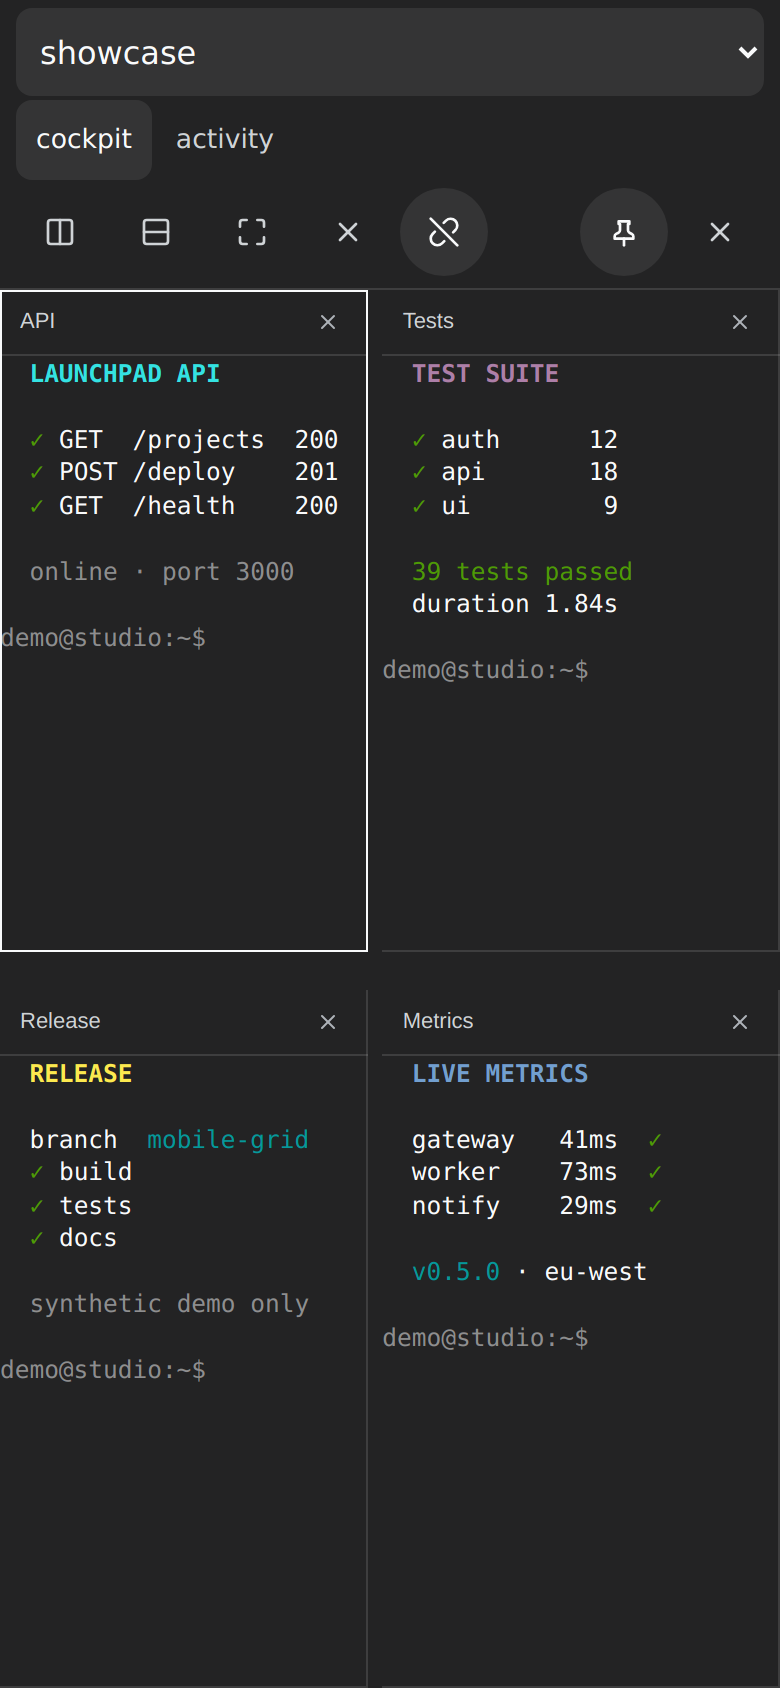
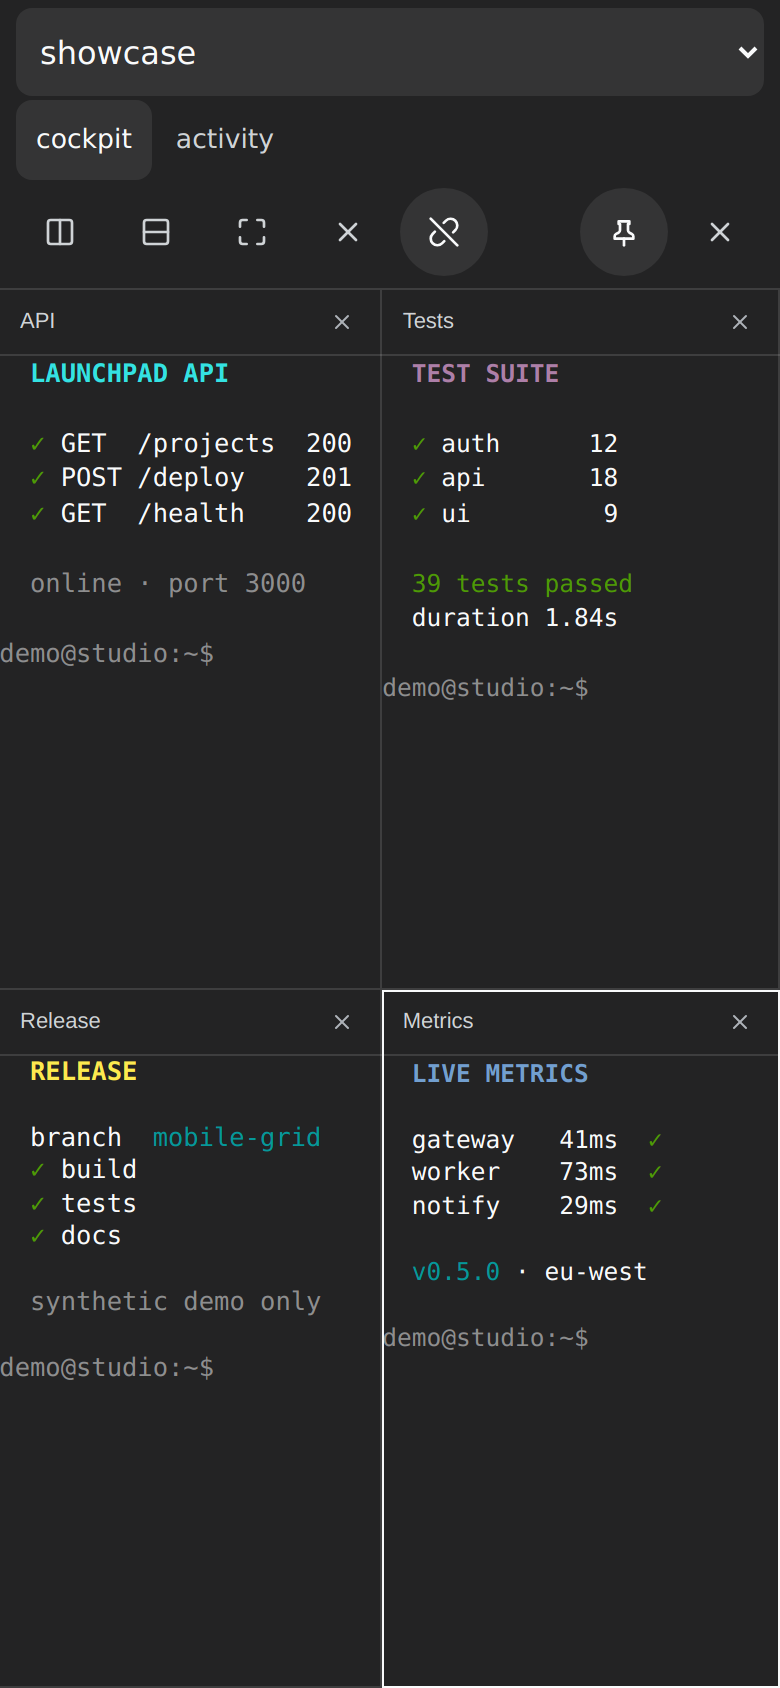
fix: close tmux pane layout seams

diff --git a/lib/client.js b/lib/client.js
@@ -599,6 +599,17 @@ window.__ModuleLoader__.load({
       })
     }
 
+    /**
+     * tmux pane_width/pane_height exclude the one-cell separator to the right
+     * and below an interior pane. Extend the visual box through that separator
+     * so adjacent borders meet, while xterm still keeps the true pane grid.
+     */
+    function paneVisualBox(pane, cols, rows) {
+      const width = pane.width + (pane.left + pane.width < cols ? 1 : 0)
+      const height = pane.height + (pane.top + pane.height < rows ? 1 : 0)
+      return { left: pane.left, top: pane.top, width, height }
+    }
+
     function mountPane(body, pane, store) {
       let rec = store.panes.get(pane.id)
       if (!rec) {
@@ -664,10 +675,11 @@ window.__ModuleLoader__.load({
       const snap = store.get().snapshot
       const w = Math.max(snap && snap.cols ? snap.cols : 80, 1)
       const hRows = Math.max(snap && snap.rows ? snap.rows : 24, 1)
-      rec.wrap.style.left = `${(100 * pane.left) / w}%`
-      rec.wrap.style.top = `${(100 * pane.top) / hRows}%`
-      rec.wrap.style.width = `${(100 * pane.width) / w}%`
-      rec.wrap.style.height = `${(100 * pane.height) / hRows}%`
+      const box = paneVisualBox(pane, w, hRows)
+      rec.wrap.style.left = `${(100 * box.left) / w}%`
+      rec.wrap.style.top = `${(100 * box.top) / hRows}%`
+      rec.wrap.style.width = `${(100 * box.width) / w}%`
+      rec.wrap.style.height = `${(100 * box.height) / hRows}%`
       rec.wrap.dataset.active = pane.active ? '1' : '0'
       rec.label.textContent = pane.title || pane.role || pane.id
       fitPane(rec, pane)
@@ -690,25 +702,32 @@ window.__ModuleLoader__.load({
       const h = Math.max(snap && snap.rows ? snap.rows : 1, 1)
       const wanted = new Map()
       for (const pane of panes) {
+        const paneBox = paneVisualBox(pane, w, h)
         const right = neighbor(panes, pane, 'x')
         if (right) {
+          const rightBox = paneVisualBox(right, w, h)
+          const top = Math.max(paneBox.top, rightBox.top)
+          const bottom = Math.min(paneBox.top + paneBox.height, rightBox.top + rightBox.height)
           const key = `v:${pane.id}:${right.id}`
           wanted.set(key, {
             dir: 'v', pane, axis: 'x',
-            left: `${(100 * (pane.left + pane.width)) / w}%`,
-            top: `${(100 * Math.max(pane.top, right.top)) / h}%`,
-            height: `${(100 * Math.min(pane.top + pane.height, right.top + right.height) - Math.max(pane.top, right.top)) / h}%`,
+            left: `${(100 * rightBox.left) / w}%`,
+            top: `${(100 * top) / h}%`,
+            height: `${(100 * (bottom - top)) / h}%`,
             width: '',
           })
         }
         const below = neighbor(panes, pane, 'y')
         if (below) {
+          const belowBox = paneVisualBox(below, w, h)
+          const left = Math.max(paneBox.left, belowBox.left)
+          const rightEdge = Math.min(paneBox.left + paneBox.width, belowBox.left + belowBox.width)
           const key = `h:${pane.id}:${below.id}`
           wanted.set(key, {
             dir: 'h', pane, axis: 'y',
-            top: `${(100 * (pane.top + pane.height)) / h}%`,
-            left: `${(100 * Math.max(pane.left, below.left)) / w}%`,
-            width: `${(100 * Math.min(pane.left + pane.width, below.left + below.width) - Math.max(pane.left, below.left)) / w}%`,
+            top: `${(100 * belowBox.top) / h}%`,
+            left: `${(100 * left) / w}%`,
+            width: `${(100 * (rightEdge - left)) / w}%`,
             height: '',
           })
         }

diff --git a/src/client-paint.test.ts b/src/client-paint.test.ts
@@ -14,6 +14,21 @@ test('client bundle invariants', () => {
   assert.doesNotMatch(src, /FitAddon/)
   assert.doesNotMatch(src, /addon-fit/)
   assert.match(src, /term\.resize\(pane\.width, pane\.height\)/)
+  // Visual boxes absorb tmux's one-cell separators so pane borders meet.
+  assert.match(src, /function paneVisualBox\(/)
+  assert.match(src, /pane\.width \+ \(pane\.left \+ pane\.width < cols \? 1 : 0\)/)
+  assert.match(src, /pane\.height \+ \(pane\.top \+ pane\.height < rows \? 1 : 0\)/)
+  const visualSource = src.match(/function paneVisualBox\(pane, cols, rows\) \{[\s\S]*?\n    \}/)?.[0]
+  assert.ok(visualSource)
+  const paneVisualBox = Function(`return (${visualSource})`)() as (
+    pane: { left: number; top: number; width: number; height: number }, cols: number, rows: number,
+  ) => { left: number; top: number; width: number; height: number }
+  assert.deepEqual(paneVisualBox({ left: 0, top: 0, width: 79, height: 23 }, 160, 48), {
+    left: 0, top: 0, width: 80, height: 24,
+  })
+  assert.deepEqual(paneVisualBox({ left: 80, top: 24, width: 80, height: 24 }, 160, 48), {
+    left: 80, top: 24, width: 80, height: 24,
+  })
   // Keyboard handling is scoped to the dock, never window-global stealing.
   assert.match(src, /host\.contains\(event\.target\)/)
   // Reconnect re-seeds from an authoritative capture.

diff --git a/assets/README.md b/assets/README.md
@@ -9,4 +9,4 @@ They were captured from:
 - a synthetic `showcase` session containing generated API, test, release, and metrics output;
 - a blank demonstration workspace with no private conversations or files.
 
-Before capture, the browser checks the expected synthetic session name, pane count, responsive layout, and absence of horizontal overflow. At a 390×844 CSS viewport it verifies that all four panes remain visible in the real tmux grid, focuses the bottom-right Metrics pane, toggles native tmux zoom, checks that the one visible pane exactly matches the cockpit body, unzooms back to four panes, and confirms that the 768px boundary restores desktop behavior.
+Before capture, the browser checks the expected synthetic session name, pane count, responsive layout, and absence of horizontal overflow. On desktop it verifies that every horizontal and vertical pane seam has a zero-pixel gap, all outer pane edges match the cockpit body, and toolbar control centers remain aligned. At a 390×844 CSS viewport it repeats the zero-gap seam checks, verifies that all four panes remain visible in the real tmux grid, focuses the bottom-right Metrics pane, toggles native tmux zoom, checks that the one visible pane exactly matches the cockpit body, unzooms back to four panes, and confirms that the 768px boundary restores desktop behavior.

diff --git a/CHANGELOG.md b/CHANGELOG.md
@@ -6,6 +6,14 @@ The format follows [Keep a Changelog](https://keepachangelog.com/en/1.1.0/), and
 
 ## [Unreleased]
 
+## [0.5.1]
+
+### Fixed
+
+- Pane visual boxes now absorb tmux's excluded one-cell right/bottom separators, eliminating gaps and making adjacent desktop and mobile borders meet exactly.
+- Desktop resize sashes now center on the corrected pane boundaries and span the complete shared edge.
+- Revalidated toolbar control alignment and replaced the affected screenshots with contiguous-grid captures.
+
 ## [0.5.0]
 
 ### Changed
@@ -65,7 +73,8 @@ The format follows [Keep a Changelog](https://keepachangelog.com/en/1.1.0/), and
 - Switched input to byte-safe, hex-encoded `send-keys -H` commands.
 - Paired control replies by tmux block tags and added command timeouts.
 
-[Unreleased]: https://github.com/adrianleb/dsh-tmux-cc/compare/v0.5.0...HEAD
+[Unreleased]: https://github.com/adrianleb/dsh-tmux-cc/compare/v0.5.1...HEAD
+[0.5.1]: https://github.com/adrianleb/dsh-tmux-cc/compare/v0.5.0...v0.5.1
 [0.5.0]: https://github.com/adrianleb/dsh-tmux-cc/compare/v0.4.1...v0.5.0
 [0.4.1]: https://github.com/adrianleb/dsh-tmux-cc/compare/v0.4.0...v0.4.1
 [0.4.0]: https://github.com/adrianleb/dsh-tmux-cc/compare/v0.3.0...v0.4.0
